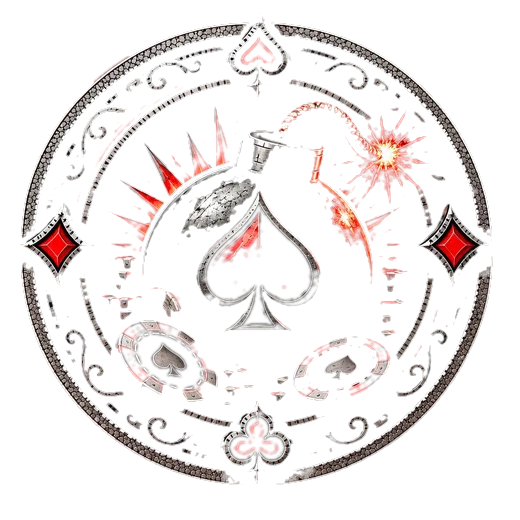
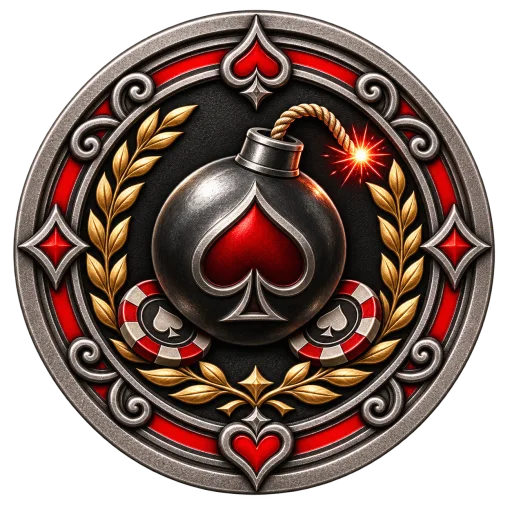
Refresh tournament award artwork

diff --git a/apps/web/src/lib/tournamentAssets.ts b/apps/web/src/lib/tournamentAssets.ts
@@ -32,7 +32,7 @@ const tournamentDisplayTitles: Record<string, string> = {
   "FLOP DEVIL DEAL": "Flop Devil Deal"
 };
 
-const awardAssetVersion = "20261109-duo";
+const awardAssetVersion = "20261109-awards-v2";
 
 export function tournamentSlug(title: string) {
   return tournamentSlugs[title] ?? title.toLowerCase().replace(/\s+/g, "-");
